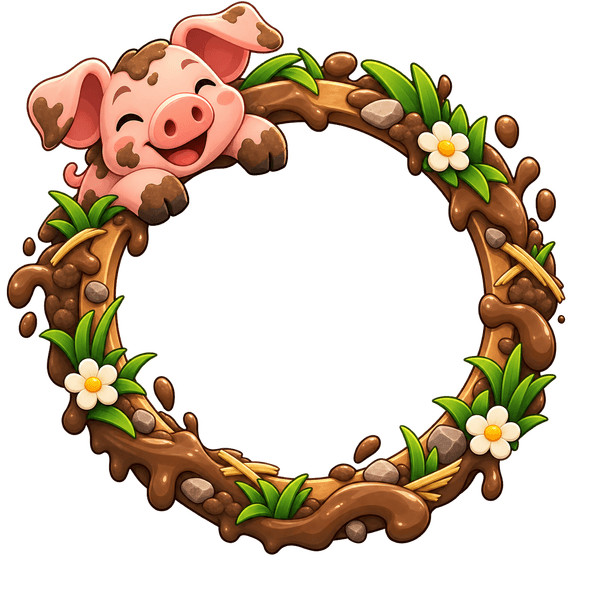
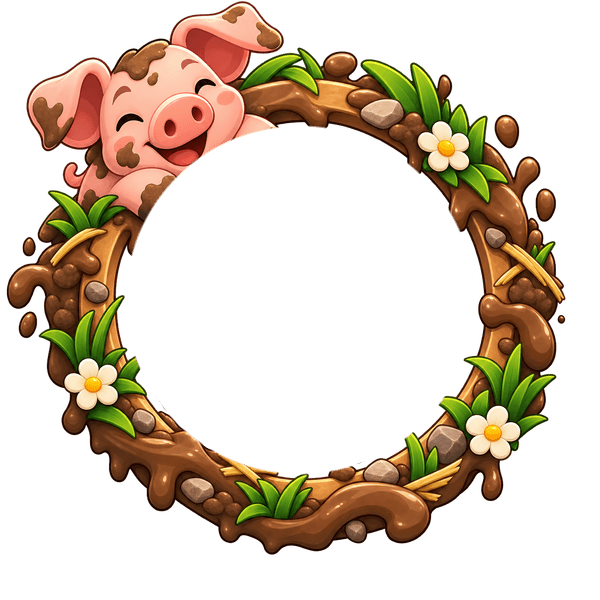
Profilringar: djuren täcker aldrig profilbilden, större ringsektion i Utseende
- Allt av ringbilden innanför profilbildens cirkel är bortklippt, så djuren tittar fram bakom
  bilden i stället för att täcka ansikten. holeRatio = hålets uppmätta mediandiameter.
- Utseende: större profilbild (62 px) och bredare rutor i ringraden.

diff --git a/src/lib/avatarRings.ts b/src/lib/avatarRings.ts
@@ -7,8 +7,9 @@
  * kan välja en ring den inte låst upp.
  *
  * Ringarnas konst: gjord i ChatGPT, beskuren så att hålet ligger exakt i bildens mitt
- * (assets/rings/ring-<id>.png). holeRatio = hålets diameter / bildens bredd, uppmätt vid
- * beskärningen och 4 % mindre, så ringen täcker profilbildens kant. Utan bild ritas ringen som en
+ * (assets/rings/ring-<id>.png). Allt av ringen innanför profilbildens cirkel är bortklippt, så
+ * djuret aldrig täcker profilbilden — det tittar fram bakom den. holeRatio = profilbildens
+ * diameter / ringbildens bredd (hålets mediandiameter, uppmätt). Utan bild ritas ringen som en
  * enkel metallring i sina färger.
  */
 
@@ -32,10 +33,10 @@ export interface AvatarRingDef {
 
 export const AVATAR_RINGS: AvatarRingDef[] = [
   { id: "none", rule: { kind: "free" } },
-  { id: "gris", rule: { kind: "treasures", count: 6 }, colors: ["#FFC9D6", "#E58FA4", "#8C4A3A"], image: require("../../assets/rings/ring-gris.png"), holeRatio: 0.568 },
-  { id: "far", rule: { kind: "treasures", count: 12 }, colors: ["#FFF6E2", "#E8D9B8", "#8A6B45"], image: require("../../assets/rings/ring-far.png"), holeRatio: 0.537 },
-  { id: "ko", rule: { kind: "treasures", count: 18 }, colors: ["#C8F0A8", "#7DBE54", "#6B4A2A"], image: require("../../assets/rings/ring-ko.png"), holeRatio: 0.553 },
-  { id: "kronhjort", rule: { kind: "allChallenges" }, colors: ["#F2C98E", "#C27A3A", "#5A3A1E"], image: require("../../assets/rings/ring-kronhjort.png"), holeRatio: 0.467 },
+  { id: "gris", rule: { kind: "treasures", count: 6 }, colors: ["#FFC9D6", "#E58FA4", "#8C4A3A"], image: require("../../assets/rings/ring-gris.png"), holeRatio: 0.58 },
+  { id: "far", rule: { kind: "treasures", count: 12 }, colors: ["#FFF6E2", "#E8D9B8", "#8A6B45"], image: require("../../assets/rings/ring-far.png"), holeRatio: 0.542 },
+  { id: "ko", rule: { kind: "treasures", count: 18 }, colors: ["#C8F0A8", "#7DBE54", "#6B4A2A"], image: require("../../assets/rings/ring-ko.png"), holeRatio: 0.578 },
+  { id: "kronhjort", rule: { kind: "allChallenges" }, colors: ["#F2C98E", "#C27A3A", "#5A3A1E"], image: require("../../assets/rings/ring-kronhjort.png"), holeRatio: 0.477 },
 ];
 
 export function findRing(id: string | null | undefined): AvatarRingDef | undefined {

diff --git a/app/settings/appearance.tsx b/app/settings/appearance.tsx
@@ -52,8 +52,8 @@ const CARD_RADIUS = 16 * (ITEM_W / CARD_W);
 
 // Ringarna är spelramar som sticker ut nästan dubbla profilbildens storlek — liten bild i en
 // bredare ruta, så de får plats bredvid varandra utan att överlappa (även vald, uppskalad)
-const RING_AVATAR = 48;
-const RING_TILE = 112;
+const RING_AVATAR = 62;
+const RING_TILE = 136;
 
 /** Ett kort i raden. Storlek och mörkning följer avståndet till mitten. */
 function DesignCard({ index, scrollX, progress, onPress, children }: {
